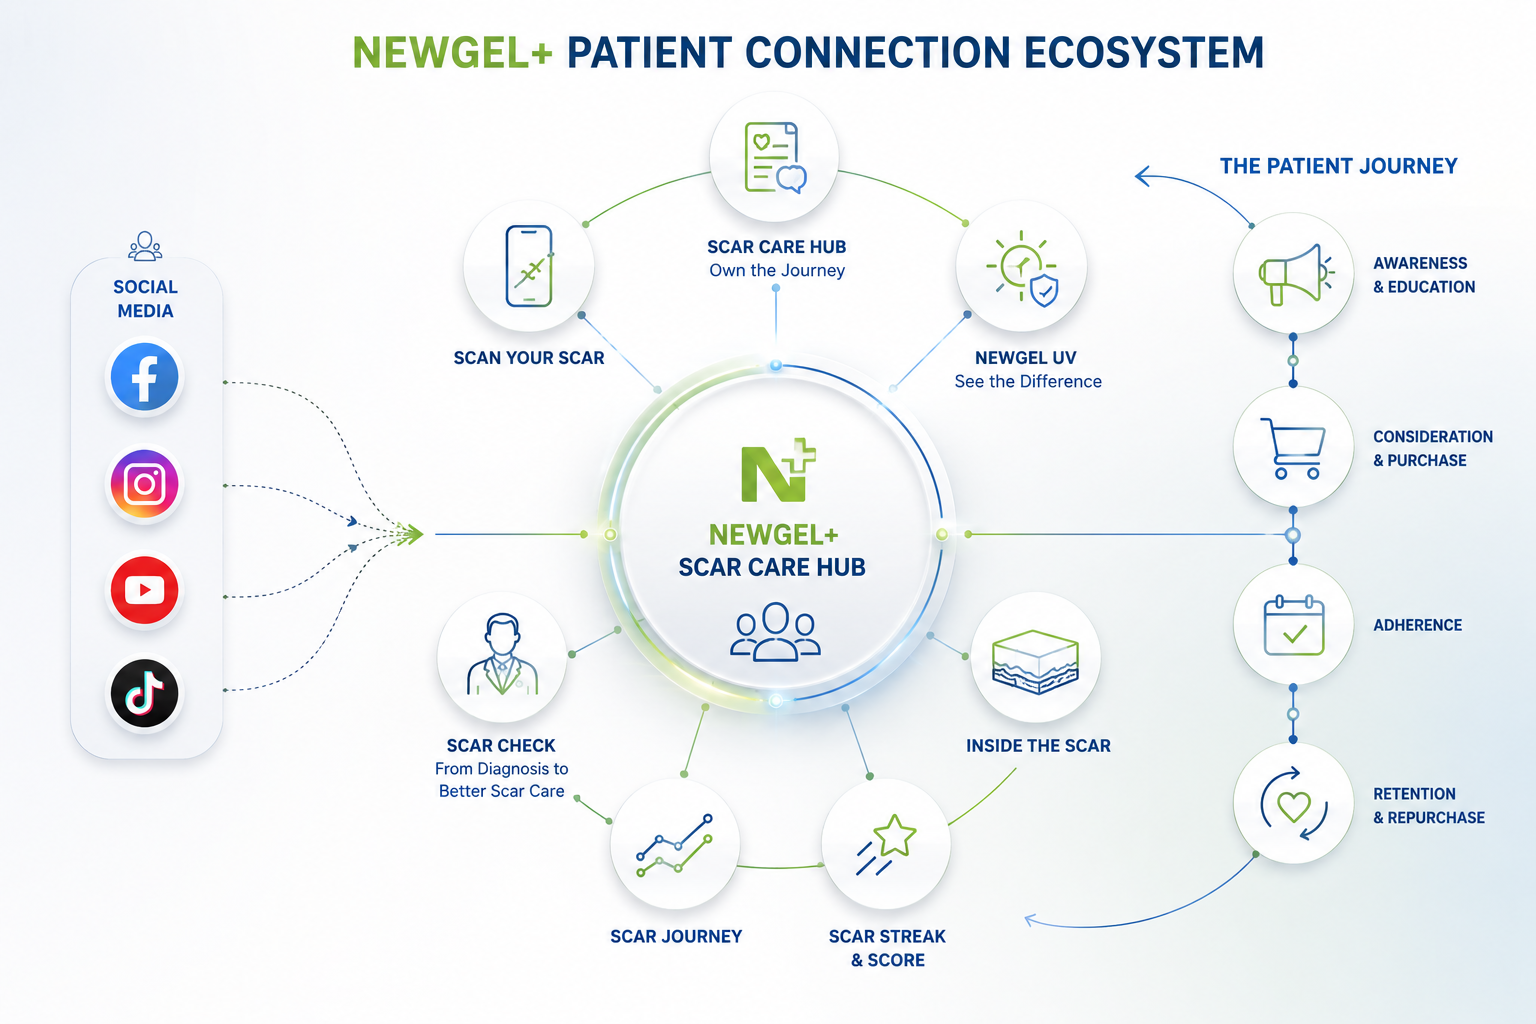
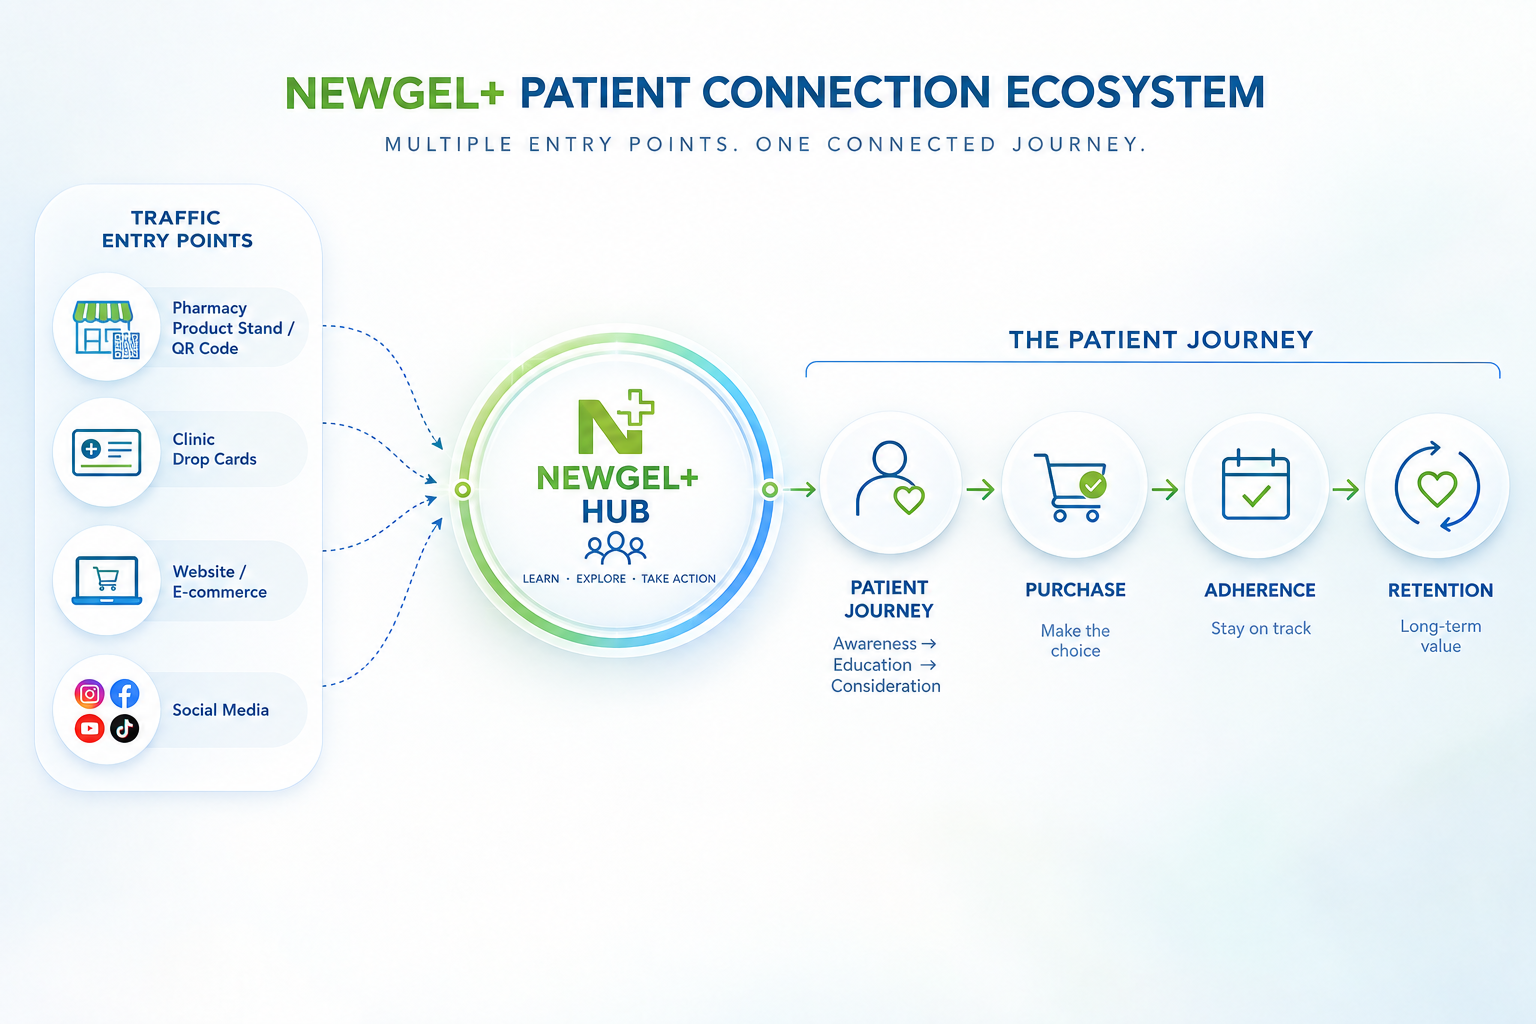
Update project

diff --git a/src/App.tsx b/src/App.tsx
@@ -120,7 +120,7 @@ const IDEAS: Idea[] = [
     bullets: [
     ],
     tagline: 'See how silicone works .  beneath the surface',
-  },/*
+  },
   {
 n: '06',
     title: 'Scar Journey',
@@ -129,28 +129,21 @@ n: '06',
     visual: 'whatsapp',
     alt: 'A WhatsApp-style chat conversation with care reminders and a patient reply',
     desc: 'A personalized WhatsApp recovery journey that stays with patients from their first purchase through the full scar-healing period. It sends timely reminders, care tips, progress check-ins, and practical guidance to help patients stay consistent with their NewGel+ routine. while introducing relevant features based on their recovery needs.',
-    bullets: [
-      (<><span className="font-bold">Weekly Care Reminders:</span> Personalized reminders to help patients stay consistent with their NewGel+ routine.</>),
-      (<><span className="font-bold">Progress Check-ins:</span>  Patients can share updates and track their recovery journey over time.</>),
-      (<><span className="font-bold">Beat the Sun: </span>A built-in feature that uses the day’s UV and weather conditions to explain how sun exposure can affect a healing scar and provide a personalized protection tip, naturally highlighting NewGel+ UV when relevant.</>),
-      (<><span className="font-bold">Care Tips: </span>Simple, timely advice based on where the patient is in their recovery journey.</>),
-      (<><span className="font-bold">Repurchase Reminder: </span>Timely notifications when patients may need to repurchase, helping maintain treatment continuity.</>),
+    bullets: [,
     ],
   },
   {
-    n: '07',
+    n: '05',
     title: 'Scar Streak & Score',
     type: 'GAMIFIED RECOVERY & LOYALTY JOURNEY',
     icon: Flame,
     visual: 'streak',
     alt: 'A gamified streak calendar with glowing green-blue completed days and a streak badge',
     desc: 'Patients build a Scar Streak by logging their daily routine and progress photos. Completing a full streak .  for example, finishing a full treatment cycle without missing a week .  unlocks a real reward: a discount on their next NewGel+ product or a free gift, redeemable directly through the Hub. Instead of a generic loyalty points system, the reward is tied to completing recovery, giving patients a concrete reason to finish treatment and repurchase.',
-    bullets: [
-      'Directly supports adherence across the full treatment window',
-      'Turns four separate SKUs into one connected progression patients want to complete',
+    bullets: [,
     ],
     tagline: 'Stay consistent. Build your streak. Unlock your next step',
-  },*/
+  },
 
 ];
 
@@ -535,13 +528,13 @@ function Ideas() {
         <div className="absolute right-0 top-1/4 h-[60vh] w-[60vh] rounded-full bg-brand-green/10 blur-[120px]" />
       </div>
       <div className="container-x">
-        <SectionHeading index="03" eyebrow="THE IDEAS" title={<>Three digital &amp; interactive <span className="text-gradient">concepts</span></>} />
+        <SectionHeading index="03" eyebrow="THE IDEAS" title={<>Five digital &amp; interactive <span className="text-gradient">concepts</span></>} />
         <p className="reveal reveal-delay-1 mt-7 max-w-3xl text-lg leading-relaxed text-white/70">
-          These concepts work as one connected patient journey, powered by a dedicated social media content strategy. Each idea will have its own creative content videos, reels, and educational posts—designed to attract patients from Facebook, Instagram, YouTube, and TikTok into the NewGel+ Hub.
+          These concepts work as one connected patient journey, powered by a central NewGel+ Hub. Patients can be directed to the Hub through multiple entry points, including Pharmacy Product Stands via QR codes, Clinic Drop Cards, the Website / E-commerce, and Social Media.
           <br /><br />
-          From there, the ecosystem moves patients through awareness and education → product consideration and purchase → adherence → retention and repurchase, with each digital experience supporting the next step in the journey.
+          From the Hub, the ecosystem moves patients through awareness and education → product consideration and purchase → adherence → retention and repurchase, with each digital experience supporting the next step in the journey.
           <br /><br />
-          <span className="font-bold">Social Media → NewGel+ Hub → Patient Journey → Purchase → Adherence → Retention</span>
+          <span className="font-bold">Pharmacy Product Stand / QR Code → Clinic Drop Cards → Website / E-commerce → Social Media → NewGel+ Hub → Patient Journey → Purchase → Adherence → Retention</span>
 
         </p>
 
@@ -569,7 +562,7 @@ function Conclusion() {
           <div>
             <SectionHeading index="04" eyebrow="CONCLUSION" title={<>From invisible to <span className="text-gradient">first choice</span></>} />
             <p className="reveal reveal-delay-1 mt-7 text-lg leading-relaxed text-white/70">
-              These Three ideas respond directly to the gaps our research identified .  but ideas alone will not move NewGel+ from invisible to first choice. NewGel+ needs a well-crafted plan built on research: a dedicated SEO strategy to win the searches competitors currently own, and a structured plan to connect every idea into one patient journey. We would like to arrange a very urgent meeting to walk through our full analysis and align on next steps.
+              These Five ideas respond directly to the gaps our research identified .  but ideas alone will not move NewGel+ from invisible to first choice. NewGel+ needs a well-crafted plan built on research: a dedicated SEO strategy to win the searches competitors currently own, and a structured plan to connect every idea into one patient journey. We would like to arrange a very urgent meeting to walk through our full analysis and align on next steps.
             </p>
             <div className="reveal reveal-delay-2 mt-9">
               <div className="relative overflow-hidden rounded-2xl border border-brand-green/30 bg-gradient-to-r from-brand-green/15 via-ink-900 to-brand-blue/15 p-6 sm:p-8">
